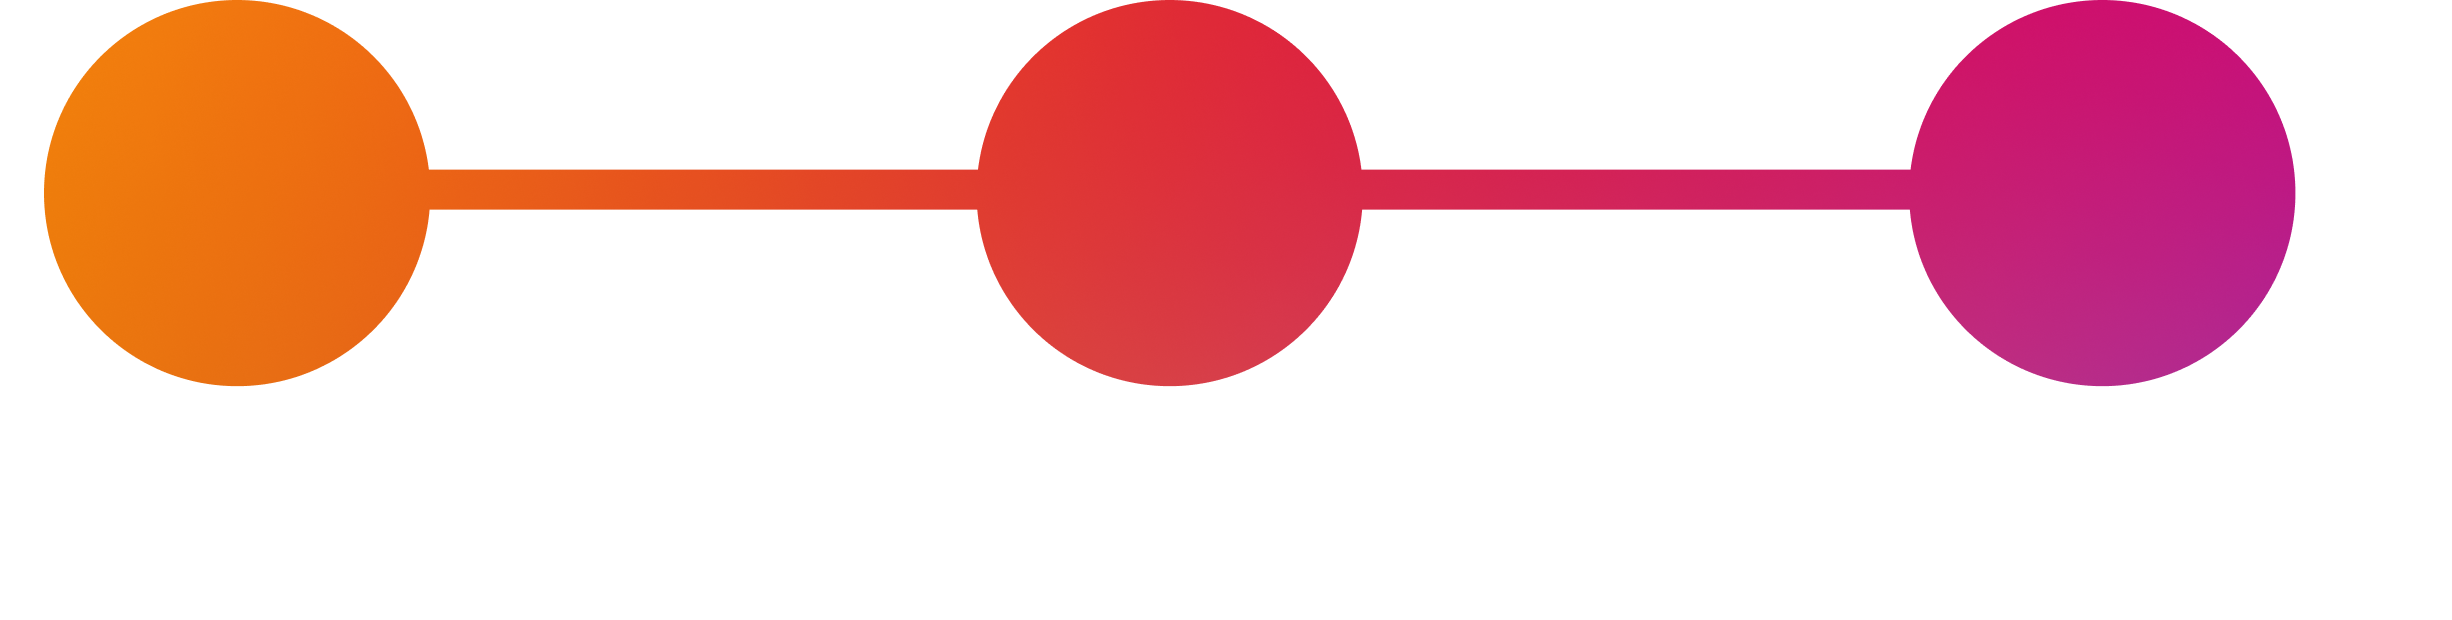
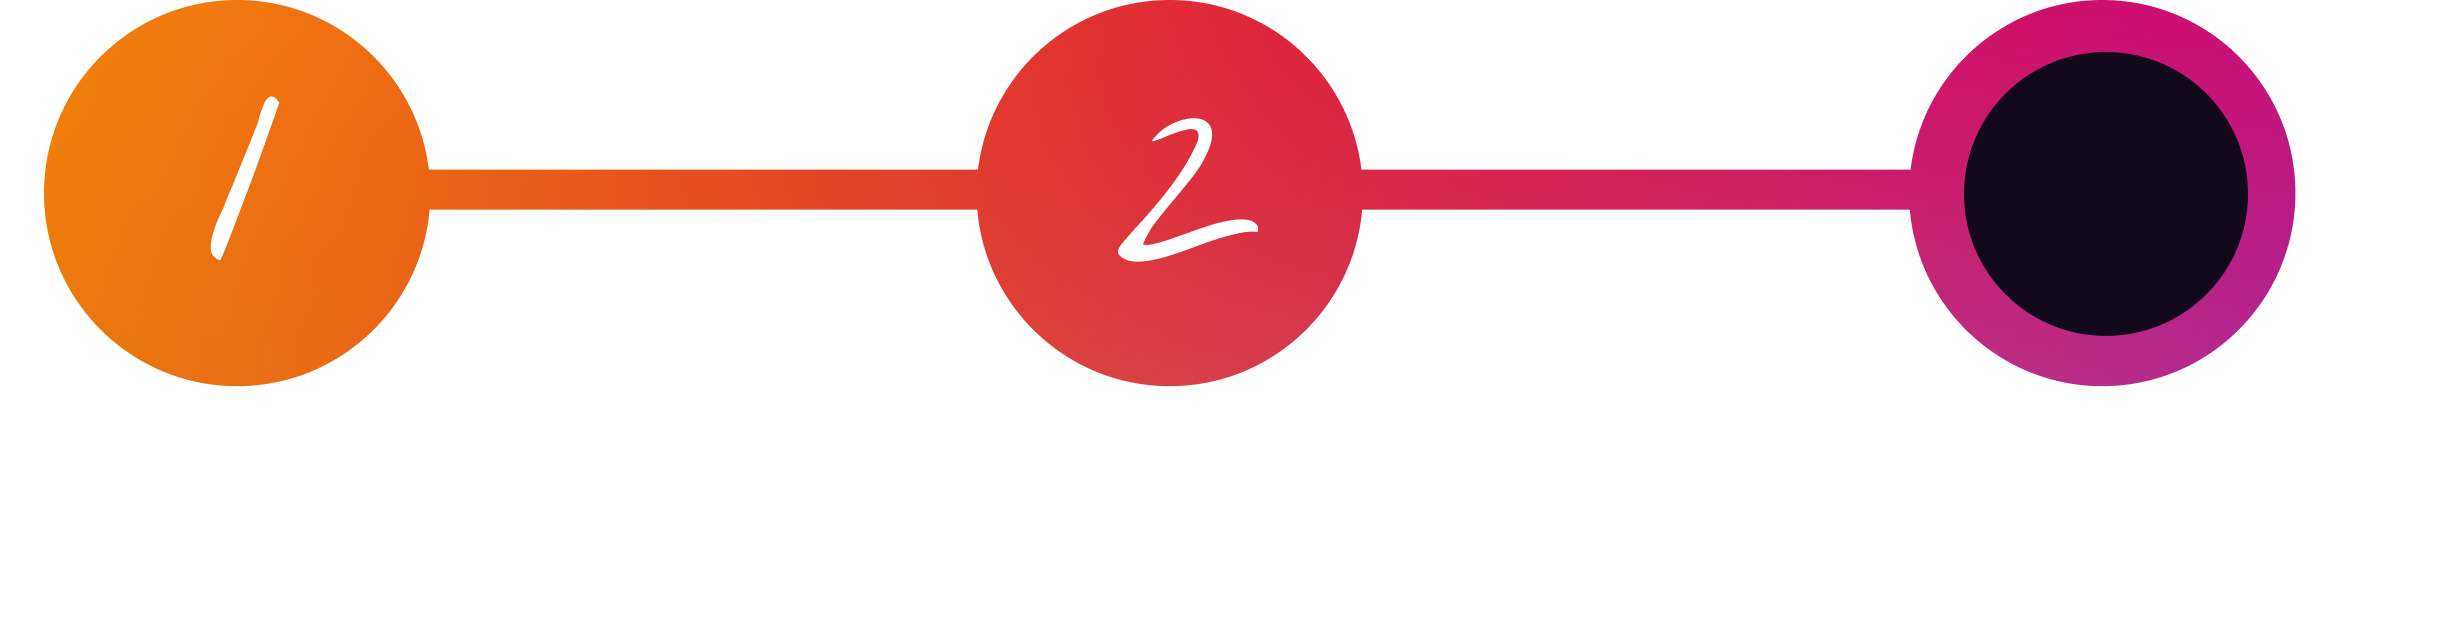
Populate sit conmigo content

Changed region(s): [[0.7749, 0.0613, 0.9299, 0.5516], [0.4339, 0.1839, 0.5269, 0.429], [0.062, 0.1532, 0.124, 0.429]]

diff --git a/src/app/projects/sit-conmigo/page.tsx b/src/app/projects/sit-conmigo/page.tsx
@@ -1,8 +1,47 @@
 'use client';
 import Link from 'next/link';
 import { useProjectPage } from '@/hooks/useProjectPage';
-import Image from 'next/image';
+import Image, { StaticImageData } from 'next/image';
 import ProjectHero from '@/components/ProjectHero';
+import progress1 from '~/case_studies/assorted/assorted_progress_1.png';
+import progress2 from '~/case_studies/assorted/assorted_progress_2.png';
+import progress3 from '~/case_studies/assorted/assorted_progress_3.png';
+import aboutUsPhone from '~/case_studies/sit_conmigo/sit_conmigo_about_us_phone.png';
+import colorAndTypeGuide from '~/case_studies/sit_conmigo/sit_conmigo_color_and_type_guide.png';
+import competitorTable from '~/case_studies/sit_conmigo/sit_conmigo_competitor_table.png';
+import confirmationPhone from '~/case_studies/sit_conmigo/sit_conmigo_confirmation_phone.png';
+import missionPhone from '~/case_studies/sit_conmigo/sit_conmigo_mission_phone.png';
+import missionTable from '~/case_studies/sit_conmigo/sit_conmigo_mission_table.png';
+import mockUp from '~/case_studies/sit_conmigo/sit_conmigo_mock_up.png';
+import mockUpPageBreak1 from '~/case_studies/sit_conmigo/sit_conmigo_mock_up_page_break_1.png';
+import ourChairsIphone from '~/case_studies/sit_conmigo/sit_conmigo_our_chairs_iphone.png';
+import pageBreak1 from '~/case_studies/sit_conmigo/sit_conmigo_page_break_1.png';
+import personaCard from '~/case_studies/sit_conmigo/sit_conmigo_persona_card.png';
+import productPhone from '~/case_studies/sit_conmigo/sit_conmigo_product_phone.png';
+import userFlow from '~/case_studies/sit_conmigo/sit_conmigo_user_flow.png';
+import userQuotes from '~/case_studies/sit_conmigo/sit_conmigo_user_quotes.png';
+import wireFrames from '~/case_studies/sit_conmigo/sit_conmigo_wire_frames.png';
+import yourCartPhone from '~/case_studies/sit_conmigo/sit_conmigo_your_cart_phone.png';
+
+function StaticImage({
+  image,
+  className,
+  alt,
+}: {
+  image: StaticImageData;
+  className?: string;
+  alt: string;
+}) {
+  return (
+    <Image
+      src={image.src}
+      height={image.height}
+      width={image.width}
+      className={className}
+      alt={alt}
+    />
+  );
+}
 
 function SitConmigo() {
   const [, hero] = useProjectPage();
@@ -16,6 +55,240 @@ function SitConmigo() {
         wrapperClasses=""
         textClasses=""
       />
+      <StaticImage
+        image={progress1}
+        alt="Progress 1"
+        className="mx-auto max-w-2xl"
+      />
+      <h2>Project</h2>
+      <h3>Overview</h3>
+      <p>
+        Sit Conmigo is a new company who specializes in ethically and
+        sustainably-made household chairs. Their founder Yolanda Lopez hired me
+        to create a mock-up of a mobile, tablet, and website designs. As well as
+        a prototype of the mobile checkout process. She wanted the{' '}
+        <span>
+          design to focus on the company’s ethically-minded mission, spotlight
+          her chairs, and visually illustrate her mission and company
+          personality
+        </span>
+        . All with the purpose of urging people to pre-order her stylish chairs.
+      </p>
+      <p>
+        I researched competitor sites and their checkout processes to find a
+        desirable user flow. I worked closely with Yolanda to find the right
+        colors and typography that made the company’s identity shine. Then
+        conducted user testing to arrive at my final design.
+      </p>
+      <h3>Roles, deliverables, and goals go here!</h3>
+      <h3>Problem</h3>
+      <p>
+        Yolanda has four beautiful chairs that will be ready to ship in just a
+        few weeks. Because so many people browse online these days, she thinks
+        that focusing on the mobile checkout process is most crucial. This
+        begged the question:
+      </p>
+      <blockquote>
+        How can we get eco-conscious buyers to pre-order chairs on the mobile
+        website?
+      </blockquote>
+      <StaticImage image={pageBreak1} alt="Page break 1" />
+      <StaticImage image={progress2} alt="Progress bar 2" />
+      <h2>Approach</h2>
+      <h3>Competitive Analysis</h3>
+      <p>
+        Yolanda provided me with four inspirational websites that are mission
+        driven. She also provided me with two competitor websites, one with
+        similar products, and one with a similar mission-driven focus. I
+        investigated two more sites whose products were also sustainably-made
+        furniture. These were the similarities I found:
+      </p>
+      <StaticImage image={missionTable} alt="Mission table" />
+      <StaticImage image={competitorTable} alt="Competitor table" />
+      <h3>User Persona</h3>
+      <p>
+        While looking at Sit Conmigo’s competitor sites, I found customer
+        reviews on facebook. This felt like a good opportunity to create a user
+        persona on real people. The profiles I viewed depicted professionals who
+        <span className="bold">
+          want to buy products with the same socially moral ethics that drive
+          their own lives
+        </span>
+        . Based on 5 facebook profiles, I made this user persona:
+      </p>
+      <StaticImage image={personaCard} alt="Persona card" />
+      <h3>User Flow</h3>
+      <p>
+        I created a User Flow to imagine what the checkout process may look
+        like. Sit Conmigo only has a few chairs to sell, so the site does not
+        need to be overly complicated.{' '}
+        <span className="bold">
+          A customer should be able to buy a chair in the least amount of steps
+        </span>
+        . Because Yolanda’s inspiration sites contained robust “About Us”
+        sections, I decided to put the “About Us” section containing the
+        company’s mission on the homepage.
+      </p>
+      <StaticImage image={userFlow} alt="User flow" />
+      <h3>Color and Typescale</h3>
+      <p>
+        Now the fun begins! I began taking colors from Yolanda’s chair fabrics
+        to experiment with color palettes. The midnight green complements the
+        hero image I wanted to use that depicts a green chair and red chair.{' '}
+        <span className="bold">
+          I also wanted to use bluish hue of midnight green to create a sense of
+          trustworthiness in Sit Conmigo’s sustainable practices
+        </span>
+        . I first chose a muted rose color, but as the project continued, it
+        became evident that there needed to be a more neutral color in the mix.
+        I was immediately drawn to the golden yellow as an accent color to show
+        the relatability of the Sit Conmigo staff and mission.
+      </p>
+      <p>
+        I chose a serif font for the page titles to accompany the trustworthy
+        blue. Something that was both beautiful and high-end, much like
+        Yolanda’s chairs. As for the secondary font, I felt a readable
+        sans-serif would work best. 
+      </p>
+      <StaticImage
+        image={colorAndTypeGuide}
+        alt="Color and type guide"
+        className="mx-auto max-w-2xl"
+      />
+      <h3>Wireframes and Design Comp</h3>
+      <p>
+        I then created a low-fi and hi-fi wireframe of the Homepage.{' '}
+        <span className="bold">
+          I included images of the chairs so customers are immediately drawn to
+          Pre-Order, followed by the “About Us” section to give customers an
+          overview of Sit Conmigo’s mission, and lastly, a simple contact footer
+        </span>
+        .
+      </p>
+      <p>
+        Next, I transformed the wireframe into a fully-furnished mock-up. I
+        changed some layout features to showcase the images better than the
+        wireframe. Yolanda had me go ahead and create a mock-up of the checkout
+        process for mobile. Once I got a prototype up and running for the mobile
+        site, it was ready to user test!
+      </p>
+      <StaticImage image={wireFrames} alt="Wire frames" />
+      <div className="flex">
+        <div>
+          <h3>Prototyping</h3>
+          <p>
+            With the designs approved, I created a mobile check-out process that
+            was elegant and efficient. It consists of:
+          </p>
+          <ul>
+            <li>
+              Robust “About” section that included eco-conscious certification
+              icons and a statement from Yolanda on the Homepage
+            </li>
+            <li>
+              Chair description cards on the shopping page for easy comparison.
+            </li>
+            <li>
+              Multiple options for users to go back to previous pages throughout
+              the checkout process.
+            </li>
+          </ul>
+        </div>
+        <div>
+          <StaticImage
+            image={mockUp}
+            alt="Mock up"
+            className="mx-auto max-w-2xl"
+          />
+          <button className="gradient-text">View Prototype</button>
+        </div>
+      </div>
+      <StaticImage
+        image={mockUpPageBreak1}
+        alt="Mock up page break 1"
+        className="mx-auto max-w-2xl"
+      />
+      <StaticImage
+        image={progress3}
+        alt="Progress bar 3"
+        className="mx-auto max-w-2xl"
+      />
+      <h2>Results</h2>
+      <h3>User Testing</h3>
+      <p>
+        Users were asked to order a chair from the mobile website. They were
+        also asked to describe how the site demonstrated the company’s mission.
+        After 2 rounds of user testing, it was evident that users enjoyed the
+        layout of chair photos and prices, but felt a bit confused and confined
+        in the checkout process. They also stated that the site did not put
+        enough emphasis on the mission of Sit Conmigo.{' '}
+      </p>
+      <StaticImage image={userQuotes} alt="User quotes" />
+      <blockquote>
+        Users wanted more company information before they could feel confident
+        in their purchase. Also, more ability to move backwards in the checkout
+        process.
+      </blockquote>
+      <h3>Solutions</h3>
+      <h4>Homepage</h4>
+      <p>
+        First, I addressed the lack of enthusiasm to begin the pre-order process
+        and the desire for more information on the company. I did this through
+        emphasizing the company’s sustainability practices by displaying their
+        many eco-friendly certifications. This along with a mission statement
+        gives a more comprehensive vision of the company’s ethos. 
+      </p>
+      <div className="flex">
+        <StaticImage image={aboutUsPhone} alt="About us phone" />
+        <StaticImage image={missionPhone} alt="Mission phone" />
+      </div>
+      <h4>Shopping Page</h4>
+      <p>
+        To continue to make the customer feel at-ease during the pre-ordering
+        process, there is a small description of where the chair would fit best
+        in the user’s home. This simple comparison method allows the user to
+        feel even more sure they want to continue to Pre-Order. 
+      </p>
+      <StaticImage image={ourChairsIphone} alt="Our chairs phone" />
+      <h4>Product Page</h4>
+      <p>
+        While working on this page, it became clear that lightening the
+        background hue to a light beige allows the brand color to pop. I added a
+        “Back to Shop” button so users felt they could look back at other chairs
+        if they felt unsure about the one they had selected.
+      </p>
+      <StaticImage image={productPhone} alt="Product phone" />
+      <h4>Your Cart Page</h4>
+      <p>
+        To be more explicit about what steps are involved with pre-ordering a
+        chair, the payment information was expanded to three cards and numbered
+        each step so users knew where they were in the checkout process. A
+        “Cancel Order” button was added to allow more freedom to shop if
+        needed. 
+      </p>
+      <StaticImage image={yourCartPhone} alt="Your cart phone" />
+      <h4>Confirmation Page</h4>
+      <p>
+        Users felt like the confirmation page needed to be more clear. So I made
+        more apparent buttons for viewing their order confirmation and back to
+        shopping for chairs. While also making the “Contact Us” section still
+        visible on the mobile phone in case customers have questions about their
+        purchase.
+      </p>
+      <StaticImage image={confirmationPhone} alt="Confirmation phone" />
+      <h3>Challenges</h3>
+      <p>
+        I found that the more feedback the better. I received multiple rounds of
+        feedback beyond just user testing. There were times when many iterations
+        were needed, and other times when finding a solution and moving on was
+        necessary.
+      </p>
+      <p>
+        Doing a mobile-first design for Yolanda helped me keep the MVP in mind.
+        I learned the importance of combining style with minimalism. Keeping
+        features within the confines of a small screen and giving the site the
+        flare it deserved was crucial to the success of the site.{' '}
+      </p>
     </>
   );
 }
